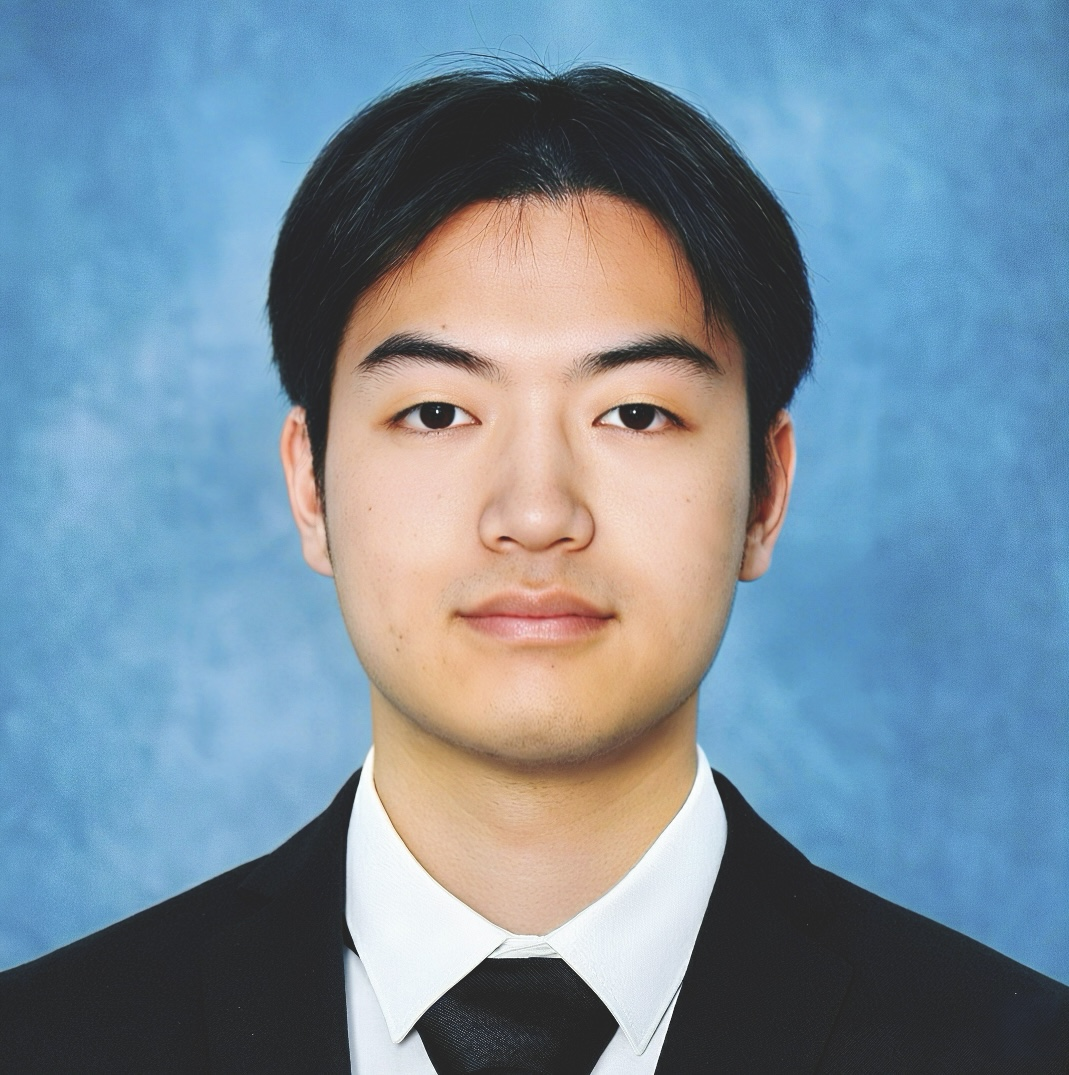
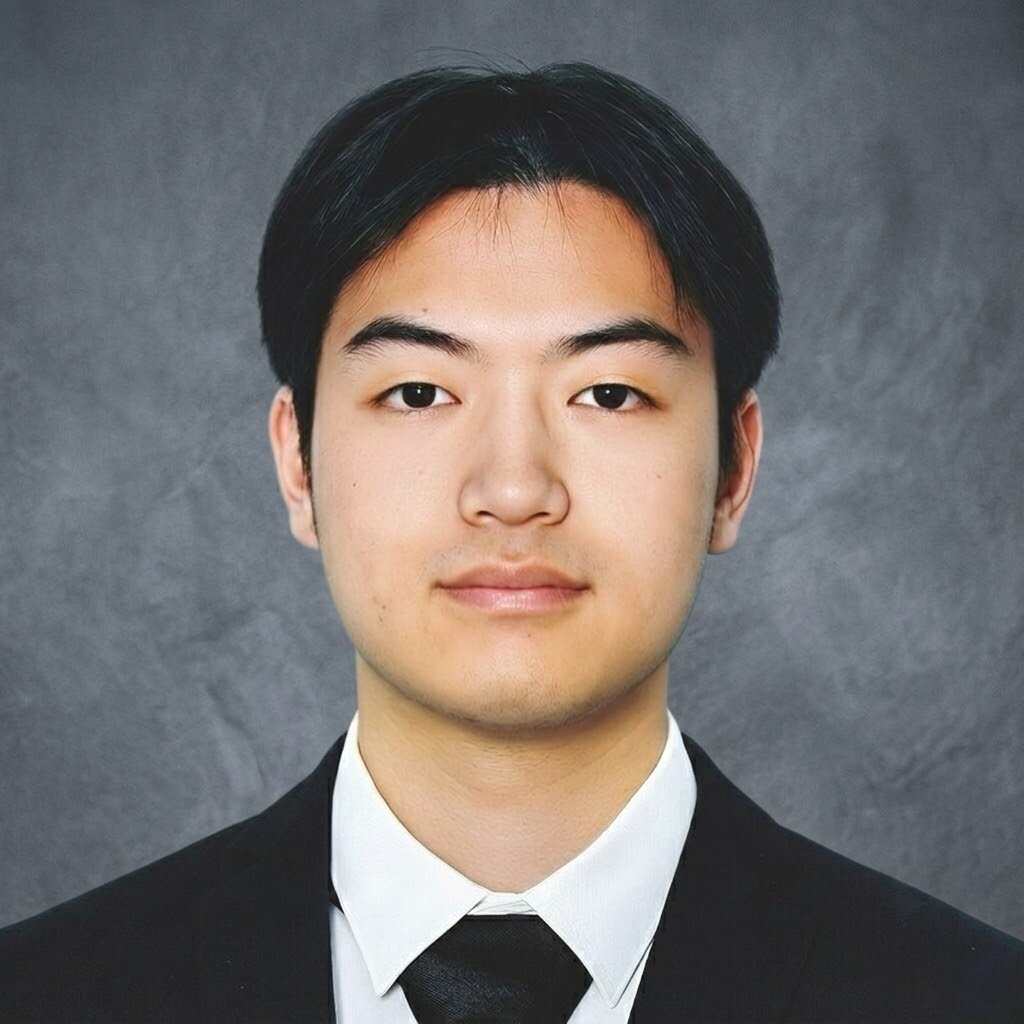
Deploying to gh-pages from @ muan-li/muan-li.github.io@3fc994535cba6deaafbfe2bf2269308539a66839 🚀

diff --git a/index.html b/index.html
@@ -1,5 +1,5 @@
 <!DOCTYPE html> <html lang="en"> <head> <meta http-equiv="Content-Type" content="text/html; charset=UTF-8"> <meta charset="utf-8"> <meta name="viewport" content="width=device-width, initial-scale=1, shrink-to-fit=no"> <meta http-equiv="X-UA-Compatible" content="IE=edge"> <title> Muan Li </title> <meta name="author" content="Muan Li"> <meta name="description" content="A simple, whitespace theme for academics. Based on [*folio](https://github.com/bogoli/-folio) design. "> <meta name="keywords" content="jekyll, jekyll-theme, academic-website, portfolio-website"> <link rel="stylesheet" href="/assets/css/bootstrap.min.css?v=a4b3f509e79c54a512b890d73235ef04"> <link rel="stylesheet" href="https://cdn.jsdelivr.net/npm/mdbootstrap@4.20.0/css/mdb.min.css" integrity="sha256-jpjYvU3G3N6nrrBwXJoVEYI/0zw8htfFnhT9ljN3JJw=" crossorigin="anonymous"> <link defer rel="stylesheet" href="/assets/css/academicons.min.css?v=f0b7046b84e425c55f3463ac249818f5"> <link defer rel="stylesheet" href="/assets/css/scholar-icons.css?v=62b2ac103a88034e6882a5be5f3e2772"> <link defer rel="stylesheet" type="text/css" href="https://fonts.googleapis.com/css2?family=Source+Sans+3:wght@400;600;700&amp;family=Montserrat:wght@500;600;700;800&amp;family=Material+Icons&amp;display=swap"> <link defer rel="stylesheet" href="/assets/css/jekyll-pygments-themes-github.css?v=591dab5a4e56573bf4ef7fd332894c99" media="" id="highlight_theme_light"> <link rel="shortcut icon" href="/assets/img/13.jpg?v=4d54046fbb0842272a1ad69c040b688a"> <link rel="stylesheet" href="/assets/css/main.css?v=d41d8cd98f00b204e9800998ecf8427e"> <link rel="canonical" href="https://muanli.com/"> <script src="/assets/js/theme.js?v=48c9b5bd7f2e0605e39e579400e22553"></script> <link defer rel="stylesheet" href="/assets/css/jekyll-pygments-themes-native.css?v=5847e5ed4a4568527aa6cfab446049ca" media="none" id="highlight_theme_dark"> <script>
     initTheme();
-  </script> </head> <body class="fixed-top-nav "> <header> <nav id="navbar" class="navbar navbar-light navbar-expand-sm fixed-top" role="navigation"> <div class="container"> <button class="navbar-toggler collapsed ml-auto" type="button" data-toggle="collapse" data-target="#navbarNav" aria-controls="navbarNav" aria-expanded="false" aria-label="Toggle navigation"> <span class="sr-only">Toggle navigation</span> <span class="icon-bar top-bar"></span> <span class="icon-bar middle-bar"></span> <span class="icon-bar bottom-bar"></span> </button> <div class="collapse navbar-collapse text-right" id="navbarNav"> <ul class="navbar-nav ml-auto flex-nowrap"> <li class="nav-item active"> <a class="nav-link" href="/">me <span class="sr-only">(current)</span> </a> </li> <li class="nav-item "> <a class="nav-link" href="/publications/">research </a> </li> <li class="nav-item "> <a class="nav-link" href="/news/">news </a> </li> <li class="nav-item "> <a class="nav-link" href="/cv/">cv </a> </li> <li class="nav-item"> <button id="search-toggle" title="Search" onclick="openSearchModal()"> <span class="nav-link"><i class="ti ti-search"></i></span> </button> </li> <li class="toggle-container"> <button id="light-toggle" title="Change theme"> <i class="ti ti-sun-moon" id="light-toggle-system"></i> <i class="ti ti-moon-filled" id="light-toggle-dark"></i> <i class="ti ti-sun-filled" id="light-toggle-light"></i> </button> </li> </ul> </div> </div> </nav> <progress id="progress" value="0"> <div class="progress-container"> <span class="progress-bar"></span> </div> </progress> </header> <div class="container mt-5" role="main"> <div class="post"> <header class="post-header"> <h1 class="post-title"> Muan Li </h1> <p class="desc"></p> </header> <article> <div class="profile float-right"> <figure> <picture> <img src="/assets/img/prof_pic.jpg?v=60bea43d2a4f95fcb8da8db0d2d1f231" class="img-fluid z-depth-1 rounded" width="100%" height="auto" alt="prof_pic.jpg" loading="eager" onerror="this.onerror=null; $('.responsive-img-srcset').remove();"> </picture> </figure> </div> <div class="clearfix"> <p>I am a PhD student in <a href="https://cbe.ncsu.edu/" rel="external nofollow noopener" target="_blank">Chemical Engineering</a> at NC State University, advised by Dr. Easley. I completed my bachelor’s degree at China University of Petroleum, Beijing.</p> <p>Feel free to reach out! 📫: mli68@ncsu.edu</p> <p style="margin-top: 1.5rem; margin-bottom: 1.5rem; line-height: 1.9;">Outside of the lab, I am a huge fan of Anime. It's my favorite way to recharge after a long day of research. I also enjoy playing basketball, badminton, traveling and photography.</p> </div> <h2> <a href="/news/" style="color: inherit">news</a> </h2> <div class="news"> <div class="table-responsive"> <table class="table table-sm table-borderless"> <tr> <th scope="row" style="width: 20%">Mar 15, 2026</th> <td> My personal website is now live at muanli.com! </td> </tr> <tr> <th scope="row" style="width: 20%">Mar 06, 2026</th> <td> <a class="news-title" href="/news/announcement_2/">First poster share on our group's research focus</a> </td> </tr> <tr> <th scope="row" style="width: 20%">Nov 21, 2025</th> <td> Joined the Easley Lab! A great birthday gift to myself. </td> </tr> </table> </div> </div> <div class="social"> <div class="contact-icons"> <a href="mailto:mli68@ncsu.edu" title="Email"><i class="fa-solid fa-envelope"></i></a> <a href="https://instagram.com/miles_056" title="Instagram id" rel="external nofollow noopener" target="_blank"><i class="fa-brands fa-instagram"></i></a> <a href="https://www.linkedin.com/in/muanli" title="Linkedin username" rel="external nofollow noopener" target="_blank"><i class="fa-brands fa-linkedin"></i></a> <a href="https://aeasley.wordpress.ncsu.edu/" title="Easley Lab" rel="external nofollow noopener" target="_blank"><i class="fa-solid fa-briefcase"></i></a> </div> <div class="contact-note"></div> </div> </article> </div> </div> <footer class="fixed-bottom" role="contentinfo"> <div class="container mt-0"> © Copyright 2026 Muan Li. Powered by <a href="https://jekyllrb.com/" target="_blank" rel="external nofollow noopener">Jekyll</a> with <a href="https://github.com/alshedivat/al-folio" rel="external nofollow noopener" target="_blank">al-folio</a> theme. Hosted by <a href="https://pages.github.com/" target="_blank" rel="external nofollow noopener">GitHub Pages</a>. Photos from <a href="https://unsplash.com" target="_blank" rel="external nofollow noopener">Unsplash</a>. </div> </footer> <script src="https://cdn.jsdelivr.net/npm/jquery@3.6.0/dist/jquery.min.js" integrity="sha256-/xUj+3OJU5yExlq6GSYGSHk7tPXikynS7ogEvDej/m4=" crossorigin="anonymous"></script> <script src="/assets/js/bootstrap.bundle.min.js"></script> <script src="https://cdn.jsdelivr.net/npm/mdbootstrap@4.20.0/js/mdb.min.js" integrity="sha256-NdbiivsvWt7VYCt6hYNT3h/th9vSTL4EDWeGs5SN3DA=" crossorigin="anonymous"></script> <script defer src="https://cdn.jsdelivr.net/npm/masonry-layout@4.2.2/dist/masonry.pkgd.min.js" integrity="sha256-Nn1q/fx0H7SNLZMQ5Hw5JLaTRZp0yILA/FRexe19VdI=" crossorigin="anonymous"></script> <script defer src="https://cdn.jsdelivr.net/npm/imagesloaded@5.0.0/imagesloaded.pkgd.min.js" integrity="sha256-htrLFfZJ6v5udOG+3kNLINIKh2gvoKqwEhHYfTTMICc=" crossorigin="anonymous"></script> <script defer src="/assets/js/masonry.js?v=a0db7e5d5c70cc3252b3138b0c91dcaf" type="text/javascript"></script> <script defer src="https://cdn.jsdelivr.net/npm/medium-zoom@1.1.0/dist/medium-zoom.min.js" integrity="sha256-ZgMyDAIYDYGxbcpJcfUnYwNevG/xi9OHKaR/8GK+jWc=" crossorigin="anonymous"></script> <script defer src="/assets/js/zoom.js?v=85ddb88934d28b74e78031fd54cf8308"></script> <script src="/assets/js/no_defer.js?v=2781658a0a2b13ed609542042a859126"></script> <script defer src="/assets/js/common.js?v=c15de51d4bb57887caa2c21988d97279"></script> <script defer src="/assets/js/copy_code.js?v=c8a01c11a92744d44b093fc3bda915df" type="text/javascript"></script> <script defer src="/assets/js/jupyter_new_tab.js?v=d9f17b6adc2311cbabd747f4538bb15f"></script> <script async src="https://d1bxh8uas1mnw7.cloudfront.net/assets/embed.js"></script> <script async src="https://badge.dimensions.ai/badge.js"></script> <script defer type="text/javascript" id="MathJax-script" src="https://cdn.jsdelivr.net/npm/mathjax@3.2.2/es5/tex-mml-chtml.js" integrity="sha256-MASABpB4tYktI2Oitl4t+78w/lyA+D7b/s9GEP0JOGI=" crossorigin="anonymous"></script> <script src="/assets/js/mathjax-setup.js?v=a5bb4e6a542c546dd929b24b8b236dfd"></script> <script defer src="https://cdnjs.cloudflare.com/polyfill/v3/polyfill.min.js?features=es6" crossorigin="anonymous"></script> <script defer src="/assets/js/progress-bar.js?v=2f30e0e6801ea8f5036fa66e1ab0a71a" type="text/javascript"></script> <script src="/assets/js/vanilla-back-to-top.min.js?v=f40d453793ff4f64e238e420181a1d17"></script> <script>
+  </script> </head> <body class="fixed-top-nav "> <header> <nav id="navbar" class="navbar navbar-light navbar-expand-sm fixed-top" role="navigation"> <div class="container"> <button class="navbar-toggler collapsed ml-auto" type="button" data-toggle="collapse" data-target="#navbarNav" aria-controls="navbarNav" aria-expanded="false" aria-label="Toggle navigation"> <span class="sr-only">Toggle navigation</span> <span class="icon-bar top-bar"></span> <span class="icon-bar middle-bar"></span> <span class="icon-bar bottom-bar"></span> </button> <div class="collapse navbar-collapse text-right" id="navbarNav"> <ul class="navbar-nav ml-auto flex-nowrap"> <li class="nav-item active"> <a class="nav-link" href="/">me <span class="sr-only">(current)</span> </a> </li> <li class="nav-item "> <a class="nav-link" href="/publications/">research </a> </li> <li class="nav-item "> <a class="nav-link" href="/news/">news </a> </li> <li class="nav-item "> <a class="nav-link" href="/cv/">cv </a> </li> <li class="nav-item"> <button id="search-toggle" title="Search" onclick="openSearchModal()"> <span class="nav-link"><i class="ti ti-search"></i></span> </button> </li> <li class="toggle-container"> <button id="light-toggle" title="Change theme"> <i class="ti ti-sun-moon" id="light-toggle-system"></i> <i class="ti ti-moon-filled" id="light-toggle-dark"></i> <i class="ti ti-sun-filled" id="light-toggle-light"></i> </button> </li> </ul> </div> </div> </nav> <progress id="progress" value="0"> <div class="progress-container"> <span class="progress-bar"></span> </div> </progress> </header> <div class="container mt-5" role="main"> <div class="post"> <header class="post-header"> <h1 class="post-title"> Muan Li </h1> <p class="desc"></p> </header> <article> <div class="profile float-right"> <figure> <picture> <img src="/assets/img/prof_pic.jpg?v=3676788c843bcbc53d878b35fbbad0b4" class="img-fluid z-depth-1 rounded" width="100%" height="auto" alt="prof_pic.jpg" loading="eager" onerror="this.onerror=null; $('.responsive-img-srcset').remove();"> </picture> </figure> </div> <div class="clearfix"> <p>I am a PhD student in <a href="https://cbe.ncsu.edu/" rel="external nofollow noopener" target="_blank">Chemical Engineering</a> at NC State University, advised by Dr. Easley. I completed my bachelor’s degree at China University of Petroleum, Beijing.</p> <p>Feel free to reach out! 📫: mli68@ncsu.edu</p> <p style="margin-top: 1.5rem; margin-bottom: 1.5rem; line-height: 1.9;">Outside of the lab, I am a huge fan of Anime. It's my favorite way to recharge after a long day of research. I also enjoy playing basketball, badminton, traveling and photography.</p> </div> <h2> <a href="/news/" style="color: inherit">news</a> </h2> <div class="news"> <div class="table-responsive"> <table class="table table-sm table-borderless"> <tr> <th scope="row" style="width: 20%">Mar 15, 2026</th> <td> My personal website is now live at muanli.com! </td> </tr> <tr> <th scope="row" style="width: 20%">Mar 06, 2026</th> <td> <a class="news-title" href="/news/announcement_2/">First poster share on our group's research focus</a> </td> </tr> <tr> <th scope="row" style="width: 20%">Nov 21, 2025</th> <td> Joined the Easley Lab! A great birthday gift to myself. </td> </tr> </table> </div> </div> <div class="social"> <div class="contact-icons"> <a href="mailto:mli68@ncsu.edu" title="Email"><i class="fa-solid fa-envelope"></i></a> <a href="https://instagram.com/miles_056" title="Instagram id" rel="external nofollow noopener" target="_blank"><i class="fa-brands fa-instagram"></i></a> <a href="https://www.linkedin.com/in/muanli" title="Linkedin username" rel="external nofollow noopener" target="_blank"><i class="fa-brands fa-linkedin"></i></a> <a href="https://aeasley.wordpress.ncsu.edu/" title="Easley Lab" rel="external nofollow noopener" target="_blank"><i class="fa-solid fa-briefcase"></i></a> </div> <div class="contact-note"></div> </div> </article> </div> </div> <footer class="fixed-bottom" role="contentinfo"> <div class="container mt-0"> © Copyright 2026 Muan Li. Powered by <a href="https://jekyllrb.com/" target="_blank" rel="external nofollow noopener">Jekyll</a> with <a href="https://github.com/alshedivat/al-folio" rel="external nofollow noopener" target="_blank">al-folio</a> theme. Hosted by <a href="https://pages.github.com/" target="_blank" rel="external nofollow noopener">GitHub Pages</a>. Photos from <a href="https://unsplash.com" target="_blank" rel="external nofollow noopener">Unsplash</a>. </div> </footer> <script src="https://cdn.jsdelivr.net/npm/jquery@3.6.0/dist/jquery.min.js" integrity="sha256-/xUj+3OJU5yExlq6GSYGSHk7tPXikynS7ogEvDej/m4=" crossorigin="anonymous"></script> <script src="/assets/js/bootstrap.bundle.min.js"></script> <script src="https://cdn.jsdelivr.net/npm/mdbootstrap@4.20.0/js/mdb.min.js" integrity="sha256-NdbiivsvWt7VYCt6hYNT3h/th9vSTL4EDWeGs5SN3DA=" crossorigin="anonymous"></script> <script defer src="https://cdn.jsdelivr.net/npm/masonry-layout@4.2.2/dist/masonry.pkgd.min.js" integrity="sha256-Nn1q/fx0H7SNLZMQ5Hw5JLaTRZp0yILA/FRexe19VdI=" crossorigin="anonymous"></script> <script defer src="https://cdn.jsdelivr.net/npm/imagesloaded@5.0.0/imagesloaded.pkgd.min.js" integrity="sha256-htrLFfZJ6v5udOG+3kNLINIKh2gvoKqwEhHYfTTMICc=" crossorigin="anonymous"></script> <script defer src="/assets/js/masonry.js?v=a0db7e5d5c70cc3252b3138b0c91dcaf" type="text/javascript"></script> <script defer src="https://cdn.jsdelivr.net/npm/medium-zoom@1.1.0/dist/medium-zoom.min.js" integrity="sha256-ZgMyDAIYDYGxbcpJcfUnYwNevG/xi9OHKaR/8GK+jWc=" crossorigin="anonymous"></script> <script defer src="/assets/js/zoom.js?v=85ddb88934d28b74e78031fd54cf8308"></script> <script src="/assets/js/no_defer.js?v=2781658a0a2b13ed609542042a859126"></script> <script defer src="/assets/js/common.js?v=c15de51d4bb57887caa2c21988d97279"></script> <script defer src="/assets/js/copy_code.js?v=c8a01c11a92744d44b093fc3bda915df" type="text/javascript"></script> <script defer src="/assets/js/jupyter_new_tab.js?v=d9f17b6adc2311cbabd747f4538bb15f"></script> <script async src="https://d1bxh8uas1mnw7.cloudfront.net/assets/embed.js"></script> <script async src="https://badge.dimensions.ai/badge.js"></script> <script defer type="text/javascript" id="MathJax-script" src="https://cdn.jsdelivr.net/npm/mathjax@3.2.2/es5/tex-mml-chtml.js" integrity="sha256-MASABpB4tYktI2Oitl4t+78w/lyA+D7b/s9GEP0JOGI=" crossorigin="anonymous"></script> <script src="/assets/js/mathjax-setup.js?v=a5bb4e6a542c546dd929b24b8b236dfd"></script> <script defer src="https://cdnjs.cloudflare.com/polyfill/v3/polyfill.min.js?features=es6" crossorigin="anonymous"></script> <script defer src="/assets/js/progress-bar.js?v=2f30e0e6801ea8f5036fa66e1ab0a71a" type="text/javascript"></script> <script src="/assets/js/vanilla-back-to-top.min.js?v=f40d453793ff4f64e238e420181a1d17"></script> <script>
     addBackToTop();
   </script> <script type="module" src="/assets/js/search/ninja-keys.min.js?v=a3446f084dcaecc5f75aa1757d087dcf"></script> <ninja-keys hidebreadcrumbs noautoloadmdicons placeholder="Type to start searching"></ninja-keys> <script src="/assets/js/search-setup.js?v=6c304f7b1992d4b60f7a07956e52f04a"></script> <script src="/assets/js/search-data.js"></script> <script src="/assets/js/shortcut-key.js?v=6f508d74becd347268a7f822bca7309d"></script> </body> </html>
